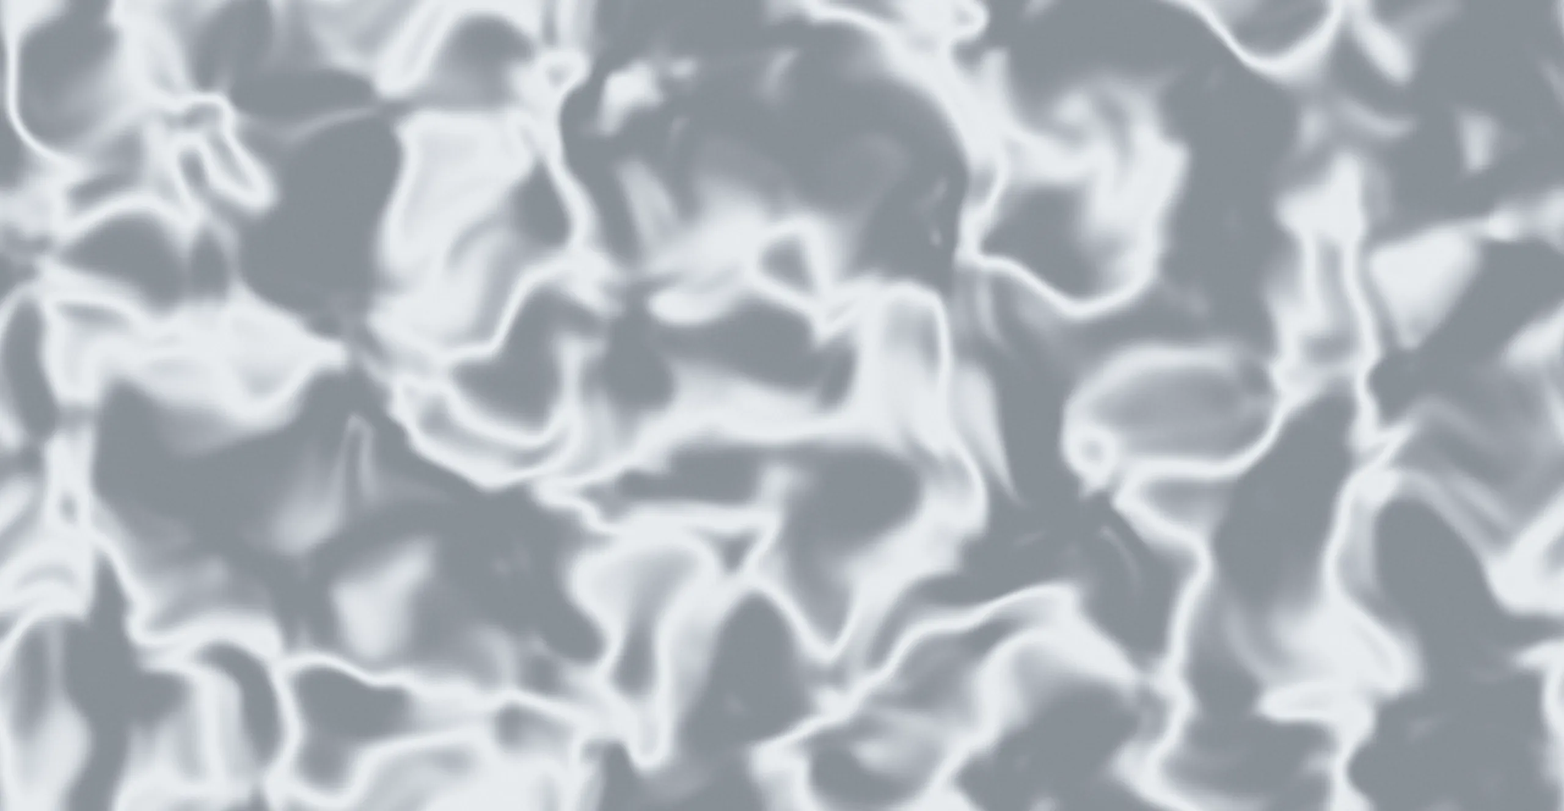
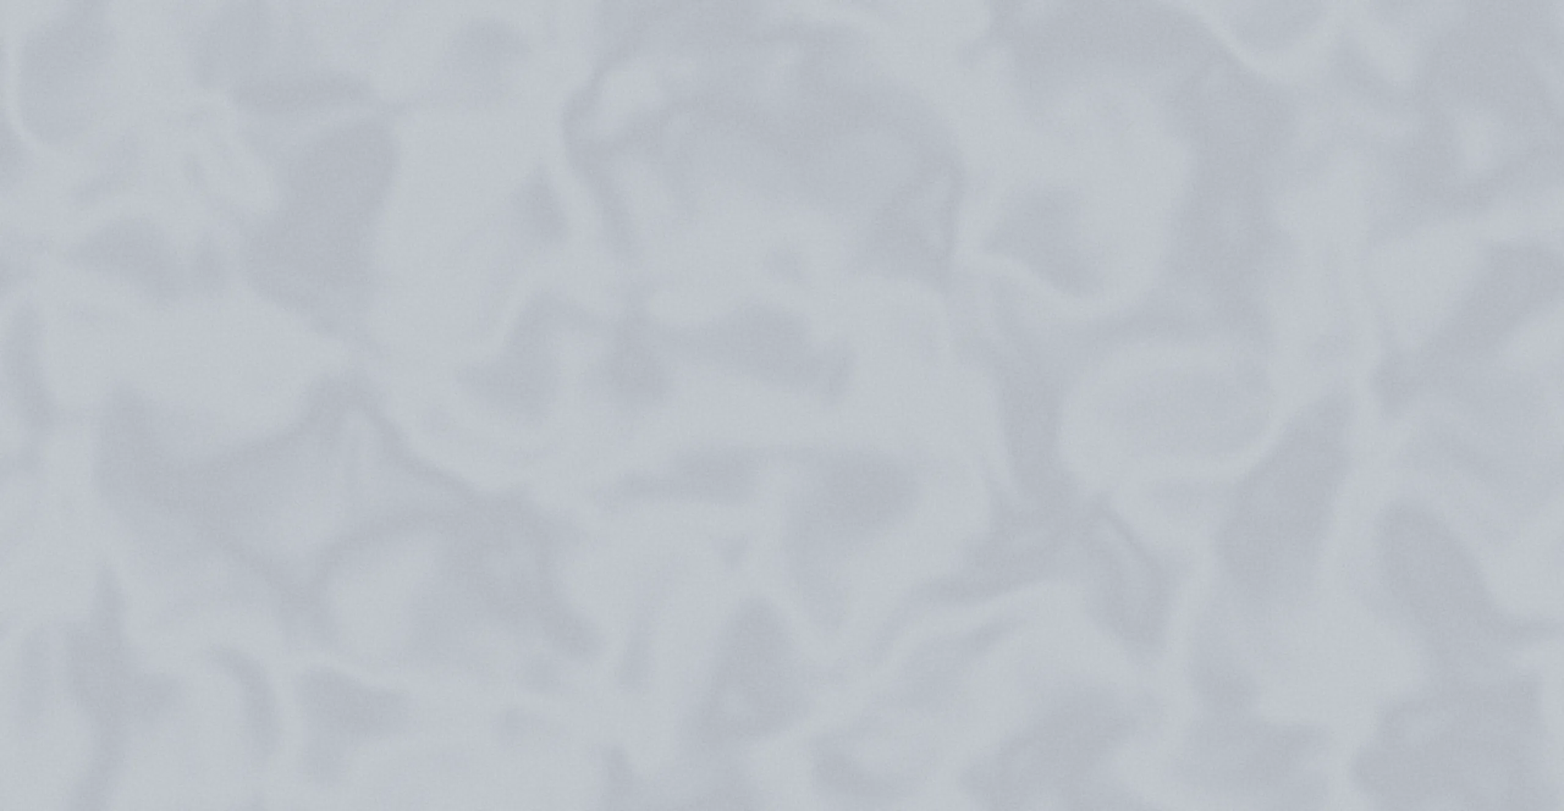
Give the metallic finishes one even shade
Broad bands of light and dark left one country dark and the next pale.
Each metal is now one even shade with a fine grain; the lit edges give
every place the same shine.

diff --git a/CLAUDE.md b/CLAUDE.md
@@ -129,7 +129,7 @@ My Planet View: people keep a private travel map of the world. They mark the cou
   - the client: a ticket's "Open country" (`CountryTicket` `action`, `CountryPanel` `onOpenCountryMap`, with "N of M states visited", drawn at once as 0 until the count arrives so the header keeps its size: 19 Nov 2026, the user's wish), `MapExperience` `ui.countryMap` puts `components/countryMap/CountryMapView.jsx` (lazy; `CountryMapLoading`'s stamps while it and its data load) in the world map's place, the goal tag hidden, with its own `useMapViewport` (extent `{ top: 0, bottom: height }`, fitted between the screen's left edge, the toolbar and its slim header; states drawn as countries are, `pastelFill`, `StarBadgeSymbols` badges) and zoom stamps (`MapZoomControls` `resetLabel`/`onReset`), `StatePopover` for a state (focus goes back to what opened it), `CountryMapList` (opened from a round list stamp at the top left on every screen, in a `MapPanel` in the middle; 19 Nov 2026, the user's wish: it was a button in the header: the keyboard's and screen readers' way to every state and pin; 19 Nov 2026, the audit), and `PinPanel` (lazy, the `pin` panel; `PinVisitForm` with `MomentDateFields`, `MomentPhotoPicker` `max` 50, and an embedded `PhotoUploader` whose new photos join the visit). `utils/map/countryMapGeo.js` (`countryMapCodeFor`, `placeOnCountryMap`, `positionOnCountryMap`), `hooks/useCountryMapData.js`. The mock: `dev/mock/countryMaps.js`, `handlers/countryMaps.js`, the share routes in `handlers/sharing.js`; the seed has New York, Massachusetts and California visited and a pin in Paris with two visits. `tests/e2e-app/countryMap.spec.js`;
   - **little 3D landmark models** (22 Nov 2026, the user's wish; docs/SITE-DESIGN.md "Country maps"): cartoony toy models drawn on the country maps only (the world map later, once zoomed in really far), each standing with its grass tile's middle on its real spot (Big Ben at Westminster on GB's and XE's maps, the Eiffel Tower on Paris on FR's, the Colosseum on Rome on IT's, the Statue of Liberty in New York Harbor on US's: Liberty Island is off New York's shore at the map's detail, so the test checks it's within New York's bounds; then the Taj Mahal on IN's, the Pyramids of Giza on EG's, the Sydney Opera House on AU's, Christ the Redeemer on BR's and the Great Wall at Badaling on CN's; then Mount Fuji on JP's, the Parthenon on GR's, the Sagrada Família on ES's, Saint Basil's Cathedral on RU's (Natural Earth swaps Moscow's codes: `RU-MOS` is the city) and Chichén Itzá on MX's; then Machu Picchu on PE's, Angkor Wat on KH's, Petra's Treasury on JO's, Neuschwanstein on DE's and the moai of Ahu Tongariki on CL's, in its Easter Island inset; then Kinderdijk's windmills on NL's, Hagia Sophia on TR's, the CN Tower on CA's, Burj Khalifa on AE's (the tallest of the set, 1.08) and Marina Bay Sands on SG's; then Table Mountain on ZA's, Borobudur on ID's, the Petronas Towers on MY's (Kuala Lumpur, `MY-14`, drawn inside Selangor), the Tower of Belém on PT's (in the Tagus, so the test checks it's within Lisbon's bounds) and Ayutthaya on TH's; then Mount Kilimanjaro on TZ's, Victoria Falls on ZM's (on the Zambezi, within Southern Province's bounds), Ha Long Bay on VN's (in the bay, within Quảng Ninh's bounds), Bagan on MM's and Prague Castle on CZ's (`CZ-PR`, drawn inside Central Bohemia); then the Cliffs of Moher on IE's (within Clare's bounds), the Perito Moreno Glacier on AR's, Gyeongbokgung on KR's (`KR-11` Seoul, drawn inside Gyeonggi), Old Havana on CU's and Bryggen on NO's; then a hundred more on 23 Nov 2026, one each for a hundred more countries, from the Minaret of Jam to the Ilulissat Icefjord: 139; then one for each of the 90 country maps that had none (23 Nov 2026), the territories and small islands too, Scotland's, Northern Ireland's and Wales' (Edinburgh Castle, the Giant's Causeway, Caernarfon Castle) on their nation's map and the UK's: 229 in all, a model on every country map, `tests/e2e-app/countryMap.spec.js` `MORE_MODELS` and `LAST_MODELS` listing them with their states). Where Natural Earth's outline can't hold a spot, model.json moves it onto it: its Vatican is a small hexagon north of the basilica, so St Peter's stands in its middle; Ha'amonga 'a Maui stands 0.7 km inland of Tonga's coarse coast; Maho Beach 1.35 km east, by the runway, on Sint Maarten's; and Kiribati's map has no Phoenix Islands (it draws the Line Islands, the Gilberts as an inset), so their model stands in the sea between the two (2.41567, -159.97479), not on their real spot. The map opens with every model's picture whole in view (`utils/map/landmarkModelSize.js` `viewWithModels`, in `CountryMapView`'s fit; 23 Nov 2026): Bikini Atoll, too small for the outlines, stands at its real spot at sea west of the Marshall Islands' drawn atolls (the Great Blue Hole too, on Lighthouse Reef off Belize), and Gorée's picture overhung Africa's westernmost point. `images/src/models/NEXT-MODELS.md` lists the next ones: its first part, a model for each of the 90 maps with none, was finished on 23 Nov 2026; its second part, 156 more for countries with one (so a map shows several), was drawn the same day (the 10 whose landmark wasn't in the data once it was added to `landmarks.js`) and is on the maps since 24 Nov 2026; its third and fourth parts, 200 more (the next most popular, then buildings, statues and structures only, the user's wish), were drawn and exported the same day, and so was its fifth part, 200 more buildings, statues and structures (the famous buildings of cities with a model already, then built World Heritage Sites), and its sixth, 100 more built World Heritage Sites, each the model of a landmark with none (Mireuksa's pagoda stands at Iksan, in its serial site, not on the landmark's point at Gongju): 885 models in all, 674 of them drawn on the maps (`countryMap.spec.js` `EXTRA_MODELS`, `NEWEST_MODELS`, `LATEST_MODELS` and `HERITAGE_MODELS`; `expectModelsOf` checks each map draws exactly the models its model.json files put on it; Cordouan's lighthouse stands at sea off the Gironde, so it's among the models checked to be in view when their map opens). Where two models' pictures would overlap in a map's opening view, only the more famous shows (23 Nov 2026, the user's decision): the other is still made, for other uses, with `"onMap": false` in its model.json, which the export copies into `landmarkModels.js` and `CountryMapView` leaves out (`landmarkModelSize.js` `modelsOnMap`). 211 have it: 20 of the 156, 31 of each of the next two hundreds, 99 of the 200 after them, 27 of the last 100, and Ayutthaya, Buda Castle and Wieliczka, which gave way to the Grand Palace, the Hungarian Parliament and Kraków. Each is a folder `images/src/models/<id>/`: a Blender script (`blender -b --factory-startup -P <id>.py -- <id>-1024.png 1024 <id>.blend`, Blender 5.2 is installed; it also writes `<id>-1024.json`, the tile's middle in the picture and the scene's `unitsPerPixel`), the `.blend` to tweak by hand, and `model.json` (name, latitude and longitude, `maps`, the landmark's Wikidata item). Every script imports `images/src/models/toon.py`, the set's shared look (toon shading, outline, grass tile, camera, a fixed sun, `loft`/`bar` helpers), so the models are one set: change it and every model changes (re-render them all). `node images/src/tools/landmark-models.mjs` (from the repo root; reads no env file) trims each render, bakes a soft shadow under the tile, writes `client/src/assets/map/landmarkModels/<id>-160|320.webp` and generates `client/src/utils/map/landmarkModels.js`, with each model's `size` (its height in scene units over Big Ben's, `REFERENCE_UNITS`: one scale for all, so every tile is the same size and the Eiffel Tower stands taller; but none is drawn smaller than `MIN_SIZE`, 0.7, tile and all, as at one scale a low, wide landmark was half Big Ben's height or less and unreadable with a whole country in view; model.json's optional `scale` adjusts one by hand before that floor: Christ the Redeemer's 1.4, his statue being small on his mountain). `toon.py` also has `tile(top)` (sand at Giza, harbour water at Sydney), `rod`, `lathe` (round or octagonal solids from a profile), `turn` (a figure turned to face the camera), and since 24 Nov 2026 `gable` (a pitched roof or a pediment), `hip` (a hipped roof) and `arch` (a round-headed door, window or niche); a model's rolling ground or mountain sets `visible_shadow = False`, as its faces at a grazing angle to the sun speckled when shadowing themselves. `CountryMapView`'s `LandmarkModels` draws each as an `<image>` in a `<g data-landmark-model transform="translate(spot)">`, 64 px tall × √zoom (40 to 150 px) × `size`, each with its name as a `<title>`; pins are drawn over them. **A press on a model opens its card** (24 Nov 2026, the user's wishes; `components/countryMap/LandmarkModelCard.jsx`): a `MapPanel` `large` (60rem) in the middle of the screen over the dimmed map (`bg-scrim`, a press on it closes), the model's name in the title strip (long ones wrap there); from `lg` two columns (24 Nov 2026, the user's wish: "just have the model on the left and the check box in the right hand side"): the model alone on the left, and on the right "About <name>": a few sentences from its English Wikipedia article and facts (`utils/map/landmarkModelInfo.js` `modelFactRows`: where, the state from `isPointInFill` at the model's spot, "Part of <landmark>" when the model is one thing of a bigger landmark that isn't a World Heritage Site (whose row names it), "Dates from" (Wikidata's inception, often when building began), height or elevation, architects, the World Heritage Site), then the "Been here" tick, which is the landmark's tick (`useLandmarkMarks().onToggle(id, been, { modelId })`, so a first stamp's celebration shows this model: `celebrate`'s `modelId`, `CelebrationDialog` `modelById`; a photo's stamp shows it ticked and disabled), and the article and CC BY-SA 4.0 credited. No photo: the model is the picture. The words are `client/src/utils/map/landmarkModelFacts.js`, generated by `node images/src/tools/model-facts.mjs --cache <folder>` (from the repo root; reads no env file): per model the article named as it is, else a part of its name (in brackets, before a comma), each only when its Wikidata item's position is near the model's spot (150 km, 60 for a part: "Acre" is never the unit of area), else the landmark's own article; `OVERRIDES`/`REJECT` after reading the cache's `report.txt`. Wikipedia's search API answered 429s to a build script on 24 Nov 2026, so it isn't used. Its own chunk (`hooks/useModelFacts.js`), named `countrymap-*` (`vite.config.js`), so off the installed app's `SITE_CODE`. Keyboard and screen readers reach the models through the country map's list ("Landmarks", between the states and the pins; the stamp is "List the <states>, landmarks and pins"). `tests/unit/components/countryMap/LandmarkModelCard.test.jsx`, `countryMap.spec.js` "a landmark model’s card".
 - **`FeedbackReport`** (25 Nov 2026, the user's wish: "report a bug, request a feature ... simple for a non technical person ... upload a screenshot if needed ... a page on the site where they can review and act on the reports"; docs/API.md "Feedback", migration `20261125040000_feedback`): a problem, an idea, a question or anything else sent from the map by anyone signed in (no verified email): `kind`, `details`, a problem's `expected` and `impact`, a problem's or an idea's `why`, the page's path with secrets taken out (`cleanPage`), `mapId`, a few `context` details and the User-Agent; one optional screenshot (`screenshotId`, a `MediaItem`, resource `feedback`, private bucket, `myplanetview/feedback/<userId>/shot-<random>.<ext>`, drawn again in the browser at most 2,560 px, `SET NULL`), which the orphan clean-up leaves alone while a report uses it and deleting the report deletes; the admin's `status` (`NEW`/`IN_PROGRESS`/`DONE`/`WONT_DO`), `adminNotes`, `closedAt` (CHECK `feedback_report_closed`), `updatedById`; reference `FB-XXXXXXXX` (`feedbackReference`). Goes with the sender's account (cascade). Rules `utils/feedback.js`, queries `domain/feedback.js`, `controllers/feedback.js` (`POST /api/feedback/screenshot/presign`, `POST /api/feedback`, 10 an hour per user; `GET|PATCH|DELETE /api/users/admin/feedback[/:feedbackId]`); "Your data" `feedback` (never the notes). Client: the toolbar's "Feedback" stamp before Settings (`MapToolbar` `canFeedback`, signed in only; `FaCommentDots`), `components/feedback/FeedbackPanel.jsx` (lazy, a `MapPanel`: "What's this about?" as four radio cards, then plain questions for that kind, "How much does it get in your way?" for a problem, a screenshot with how to take one, what the page also sends; a thank-you with the reference), `utils/feedback/feedbackForm.js` (kinds and words, the server's limits copied and compared by a test, `feedbackBody`, `pageDetails`), `uploadScreenshot.js`, `api/feedbackApi.js`; `/admin/feedback` (`pages/admin/AdminFeedbackPage.jsx`, `components/admin/feedback/`: status filters with counts, the kind, `FeedbackItem`, `FeedbackReportDialog` with the answers under their questions, the screenshot, a mailto to the sender, the details, status and notes saved together, delete after asking). The mock: `dev/mock/feedback.js` (the server's rules, compared by a test; the seed's three examples, one with a test photo as its screenshot), `handlers/feedback.js`, `db.feedback`. `tests/feedback.test.js`, `tests/integration/feedback.test.js`, `tests/e2e-app/feedback.spec.js`.
-- **`MapDesign`** (21 Nov 2026, the user's wish; docs/API.md "Map designs", migration `20261121120000_map_designs`): a map's own design, free on every plan, **one per map style** (`@@id([mapId, style])`, `style` a `MAP_STYLES` id checked in code; 22 Nov 2026, the user's wish: colours chosen on Black and white showed on the World map; migration `20261122140000_map_design_per_style` made every earlier design the World map's, `animated`): `shown`, `countryColours` (JSON, place code → `#rrggbb`), `namesColour`, `gridColour` (`#rrggbb` or null; CHECK `map_design_colours`), `hoverColour` (the country under the pointer; CHECK `map_design_hover_colour`, migration `20261123120000_map_design_hover`; 23 Nov 2026, the user's wish), `stringColour` (the strings between places, "Strings" below; CHECK `map_design_string_colour`, migration `20261123150000_map_strings`; 23 Nov 2026, the user's wish; it alone may be see-through, `#rrggbbaa`, kept as `#rrggbb` when fully opaque: `DESIGN_COLOUR_ALPHA`, `cleanColour(value, { alpha })`, migration `20261125010000_string_colour_alpha`; 25 Nov 2026, the user's wish), `stringTwistColour` (a second colour twisted into the strings, as baker's twine, `#rrggbb` or null for one colour: the reply's and PATCH's `stringTwist`; CHECK `map_design_string_twist_colour`, migration `20261125020000_string_twist`; 25 Nov 2026, the user's wish), `plannedStringColour` and `plannedStringTwistColour` (the planned strings' own, the same rules: `plannedString`, `plannedStringTwist`; migration `20261125030000_planned_strings`; 25 Nov 2026, the user's wish), `visitedLook` (the enum `VisitedLook`: `BADGE`, the default, `COLOUR` or `BOTH`) and `visitedColour` (`#rrggbb` or null for the style's `--map-visited`, purple; CHECK `map_design_visited_colour`; the reply's and PATCH's `visitedLook` and `visited`; migration `20261125050000_visited_look`; 25 Nov 2026, the user's wish: "all the countries I have visited or lived in turn the colour I selected", over a colour of their own, the hover colour, borders and outlines untouched), and `visitedFinish` (the enum `VisitedFinish`: `GOLD`, `SILVER`, `BRONZE`, or null; the reply's and PATCH's `visitedFinish`; migration `20261125060000_visited_finish`; 25 Nov 2026, the user's wish: "shiny colours like gold and silver", static foil, never animated): the client's `designCss` fills every `[data-been="true"]` place but the poles with `--map-visited`, or, with a finish, lets its sheet of metal show through them (`VISITED_FINISHES`, `visitedFinishOf` in `utils/map/mapDesign.js`; the same day, the user: "you just used a diagonal gradient", so real metal): `components/map/VisitedFoil.jsx` in `WorldMap` (its `design` and `designPreview` props, from `MapExperience` and the embed page), under the countries, one picture of polished metal the size of the map (`client/src/assets/map/foil-<metal>.webp`, about 75 KB each, loaded only when chosen, written by `node images/src/tools/foil-textures.mjs`: flowing bands through each metal's ramp, never lit bumps, which read as a hill-shaded relief map) cut by a clip path to the places been to as `CountryLayer` draws them (`utils/map/drawnPlaces.js`), their own fill see-through over it (`svg:has([data-visited-foil])`; the metal's flat `--medal-<metal>` on a map without the sheet), its edges lit as raised metal by `components/map/FoilEdgeFilter.jsx` (a filter in the world map, a slope of 1.8 px on screen at every zoom) only while the map is still (`useMapViewport`'s `data-moving`: the lit edge doubled the cost of every frame of a pan); not an SVG pattern of the picture, which was redrawn on every frame once zoomed in (half-second frames, measured); the key's swatch and the picker's buttons show the same picture; outside Black and white's filters, so the metal keeps its colour there, after (and more particular than) the per-country rules, never `:hover`, and with `COLOUR` hides the badges VisitBadges marks `data-visit-badge="fill"` (a pole's, `pole`, stay); Settings' `MapDesignSection` "Places you've been show as" (A badge, A colour, A colour and a badge) and "Visited country colour", with "Or a metallic finish" beside it (`design/VisitedFinishPicker.jsx`: Gold, Silver, Bronze, pressed again for none; choosing a colour drops the metal); `MapLegend` `visitedLook` ("Visited or lived there", a `bg-map-visited` swatch); the tips' "Where you've been" for the owner and co-owners (`mapTips` `design`) and `pictureId` (a `MediaItem`, resource `mapDesign`, private bucket, `myplanetview/designs/<mapId>/sea-<random>.<ext>`; unique, `SET NULL`). The map's, shown to everyone who opens it (share links too) while the map is in that style (below). The owner and co-owners change it (`controllers/mapDesigns.js`: `PATCH /maps/:mapId/design` `{ style, … }`, picture presign, save `{ key, style }`, delete `?style=`, a style that isn't one a 400; the uploads verified); rules in `utils/mapDesigns.js` (never a pole; at most 400 colours; JPEG, PNG or WebP up to 8 MB, saved within 50 minutes, 10 unsaved a day). One picture per design: saving one deletes the one it replaced (`setDesignPictureInDB` then `deleteStoredObjects`). The cron's `findOrphanUploads` and `deleteUnusedMediaItems` leave design pictures alone; deleting a map (or an account's maps) deletes every style's picture (`findMapDesignPictureKeys`). `mapDetailView` carries `designs` (`mapDesignsView`: style → `designView`, the picture a signed link like a photo's). "Your data" carries them (`designs`, a list). Tested in `tests/mapDesigns.test.js` and `tests/integration/mapDesigns.test.js`.
+- **`MapDesign`** (21 Nov 2026, the user's wish; docs/API.md "Map designs", migration `20261121120000_map_designs`): a map's own design, free on every plan, **one per map style** (`@@id([mapId, style])`, `style` a `MAP_STYLES` id checked in code; 22 Nov 2026, the user's wish: colours chosen on Black and white showed on the World map; migration `20261122140000_map_design_per_style` made every earlier design the World map's, `animated`): `shown`, `countryColours` (JSON, place code → `#rrggbb`), `namesColour`, `gridColour` (`#rrggbb` or null; CHECK `map_design_colours`), `hoverColour` (the country under the pointer; CHECK `map_design_hover_colour`, migration `20261123120000_map_design_hover`; 23 Nov 2026, the user's wish), `stringColour` (the strings between places, "Strings" below; CHECK `map_design_string_colour`, migration `20261123150000_map_strings`; 23 Nov 2026, the user's wish; it alone may be see-through, `#rrggbbaa`, kept as `#rrggbb` when fully opaque: `DESIGN_COLOUR_ALPHA`, `cleanColour(value, { alpha })`, migration `20261125010000_string_colour_alpha`; 25 Nov 2026, the user's wish), `stringTwistColour` (a second colour twisted into the strings, as baker's twine, `#rrggbb` or null for one colour: the reply's and PATCH's `stringTwist`; CHECK `map_design_string_twist_colour`, migration `20261125020000_string_twist`; 25 Nov 2026, the user's wish), `plannedStringColour` and `plannedStringTwistColour` (the planned strings' own, the same rules: `plannedString`, `plannedStringTwist`; migration `20261125030000_planned_strings`; 25 Nov 2026, the user's wish), `visitedLook` (the enum `VisitedLook`: `BADGE`, the default, `COLOUR` or `BOTH`) and `visitedColour` (`#rrggbb` or null for the style's `--map-visited`, purple; CHECK `map_design_visited_colour`; the reply's and PATCH's `visitedLook` and `visited`; migration `20261125050000_visited_look`; 25 Nov 2026, the user's wish: "all the countries I have visited or lived in turn the colour I selected", over a colour of their own, the hover colour, borders and outlines untouched), and `visitedFinish` (the enum `VisitedFinish`: `GOLD`, `SILVER`, `BRONZE`, or null; the reply's and PATCH's `visitedFinish`; migration `20261125060000_visited_finish`; 25 Nov 2026, the user's wish: "shiny colours like gold and silver", static foil, never animated): the client's `designCss` fills every `[data-been="true"]` place but the poles with `--map-visited`, or, with a finish, lets its sheet of metal show through them (`VISITED_FINISHES`, `visitedFinishOf` in `utils/map/mapDesign.js`; the same day, the user: "you just used a diagonal gradient", so real metal): `components/map/VisitedFoil.jsx` in `WorldMap` (its `design` and `designPreview` props, from `MapExperience` and the embed page), under the countries, one picture of polished metal the size of the map (`client/src/assets/map/foil-<metal>.webp`, about 75 KB each, loaded only when chosen, written by `node images/src/tools/foil-textures.mjs`: one even shade of the metal with a fine grain, the edges' lighting being the shine; never broad bands of light and dark, which left Greenland dark and South Africa pale (the user: "it should all be the same shade of gold"), nor lit bumps, which read as a hill-shaded relief map) cut by a clip path to the places been to as `CountryLayer` draws them (`utils/map/drawnPlaces.js`), their own fill see-through over it (`svg:has([data-visited-foil])`; the metal's flat `--medal-<metal>` on a map without the sheet), its edges lit as raised metal by `components/map/FoilEdgeFilter.jsx` (a filter in the world map, a slope of 1.8 px on screen at every zoom) only while the map is still (`useMapViewport`'s `data-moving`: the lit edge doubled the cost of every frame of a pan); not an SVG pattern of the picture, which was redrawn on every frame once zoomed in (half-second frames, measured); the key's swatch and the picker's buttons show the same picture; outside Black and white's filters, so the metal keeps its colour there, after (and more particular than) the per-country rules, never `:hover`, and with `COLOUR` hides the badges VisitBadges marks `data-visit-badge="fill"` (a pole's, `pole`, stay); Settings' `MapDesignSection` "Places you've been show as" (A badge, A colour, A colour and a badge) and "Visited country colour", with "Or a metallic finish" beside it (`design/VisitedFinishPicker.jsx`: Gold, Silver, Bronze, pressed again for none; choosing a colour drops the metal); `MapLegend` `visitedLook` ("Visited or lived there", a `bg-map-visited` swatch); the tips' "Where you've been" for the owner and co-owners (`mapTips` `design`) and `pictureId` (a `MediaItem`, resource `mapDesign`, private bucket, `myplanetview/designs/<mapId>/sea-<random>.<ext>`; unique, `SET NULL`). The map's, shown to everyone who opens it (share links too) while the map is in that style (below). The owner and co-owners change it (`controllers/mapDesigns.js`: `PATCH /maps/:mapId/design` `{ style, … }`, picture presign, save `{ key, style }`, delete `?style=`, a style that isn't one a 400; the uploads verified); rules in `utils/mapDesigns.js` (never a pole; at most 400 colours; JPEG, PNG or WebP up to 8 MB, saved within 50 minutes, 10 unsaved a day). One picture per design: saving one deletes the one it replaced (`setDesignPictureInDB` then `deleteStoredObjects`). The cron's `findOrphanUploads` and `deleteUnusedMediaItems` leave design pictures alone; deleting a map (or an account's maps) deletes every style's picture (`findMapDesignPictureKeys`). `mapDetailView` carries `designs` (`mapDesignsView`: style → `designView`, the picture a signed link like a photo's). "Your data" carries them (`designs`, a list). Tested in `tests/mapDesigns.test.js` and `tests/integration/mapDesigns.test.js`.
 - **The map's style** (22 Nov 2026, the user's wish: "this is a map design I choose to reflect my travel"; docs/API.md "Map styles", migration `20261122120000_map_style`): `TravelMap.style` (a `MAP_STYLES` id, checked in code, no CHECK), set by the owner or a co-owner with `PATCH /maps/:mapId` `{ style }`; the map reply's `style` is its own, else the owner's `Profile.mapSettings.style` (`findMapDetail` reads the owner's profile; `utils/mapSettings.js` `mapStyleOf`), else null (each viewer's own). Everyone sees the map in it, share links too, and its design is drawn on it. "Your data" carries it. The mock: `views.js` `mapStyleOf` (the test user's settings for their maps), the PATCH in `handlers/maps.js`. Tested in `tests/mapSettings.test.js`, `tests/integration/mapStyle.test.js`, `tests/e2e-app/mapDesign.spec.js`.
 - **Plans** (16 Nov 2026; docs/API.md "Plans and billing", "Map limits"): `FREE`/`REGULAR`/`PREMIUM` (Economy, Business, First Class), with names, prices and limits in `server/src/utils/constants/plans.js` (the client copies it). **A map's plan comes from its owner**, for every rule: the owner's plan on the main map and the maps paid for, Economy on the free ones (19 Nov 2026).
   - The plan in force is computed, never stored (`utils/plans.js` `effectivePlan`): the best of a `Subscription` whose status counts (`active`, `trialing`, `past_due`) and any running `PlanGrant`, else FREE.
